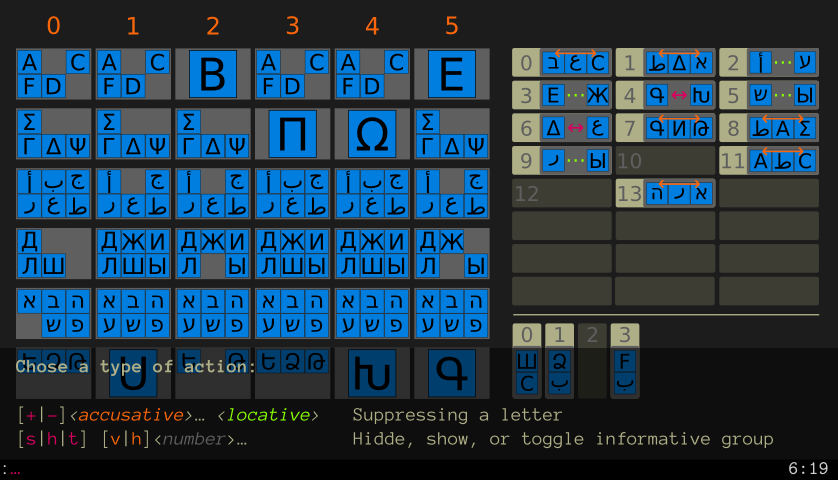
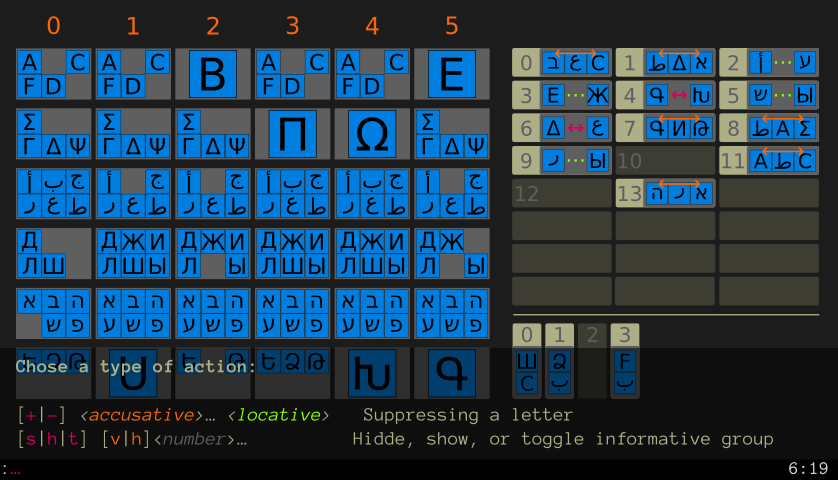
Adding arrow mode

Changed region(s): [[0.0931, 0.8438, 0.6826, 0.875]]

diff --git a/README.md b/README.md
@@ -53,6 +53,9 @@ There is two blocs of informative groups, the horizontal on on the top right and
 
 The general syntaxe to manage informative groups is `<s [v|h]<number>`. The `v` prefix is for vertical informative group and the `h` for horizontal informative group, it is immediatly followed by the number of the group in his range.
 
+###Arrow mode
+For all the actions bellow, the user can get an preview effects and all relations with arrows.
+
 ##Screenshot
 ###Action’s suggestion
 ![Action suggestion](./mok-up-chose-action.png)
@@ -62,6 +65,8 @@ The general syntaxe to manage informative groups is `<s [v|h]<number>`. The `v` 
 ![Cyrillic suggestion](./mok-up-cyrillique-suggestion.png)
 ###Many actions
 ![Screenshot](./mok-up.png)
+###Arrow mode
+![Arrow mode](./mok-up-arrow.png)
 
 ##Other versions
 [The Freecode’s Einstein Puzzle](http://freecode.com/projects/einsteinpuzzle)
